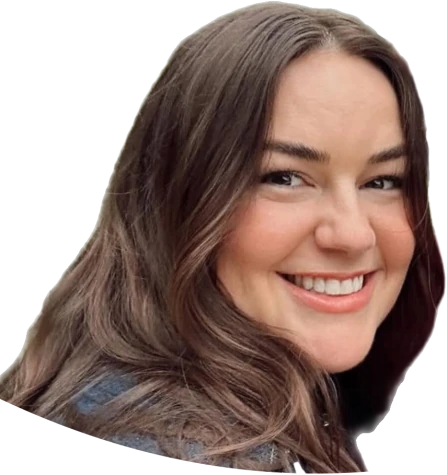
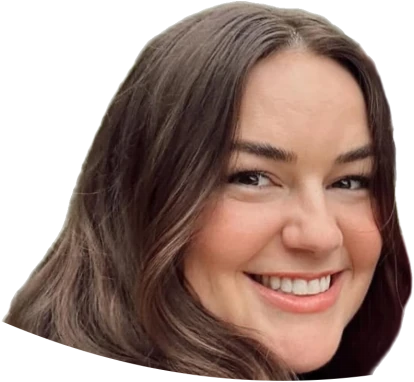
Bill's laugh, Mammy's ouch, and Shorty's shoulder out of her heads
- Bill's laugh and Mammy's ouch, sent by the owner in the chat, are cut and
  in their sets: both have the fifteen now, as everybody with a photo does.
  The two pictures are kept in art-src/generated, since they are not in his
  Drive. Bill's calm stays the photo of him in Hawaii: the owner has said
  that one is final.
- Shorty's denim jacket showed through the hair on her shoulder in every
  look but her pout. Her fifteen are trimmed at the chin, which takes the
  shoulder off. Her pout is as it was.
- Hair that is trimmed never cuts the face: a jaw that drops below the line,
  in a yell, stays whole (Sabra's yell and shocked get their chins back).
- Nanner's and Mammy's hair is not touched: the owner has said it is right
  as it is. The docs say so, and that hair is trimmed only when he asks.

206 faces. Picture fingerprints: 2 new, Shorty's fifteen and Sabra's two a
different size, nothing else touched. The whole tape plays with no errors.

Claude-Session: https://claude.ai/code/session_019b7mfLR7ticr216Qk7ssWT

diff --git a/src/data/cast.ts b/src/data/cast.ts
@@ -12,6 +12,7 @@ export const CAST: Record<string, Record<string, CastFace>> = {
     calm: { file: 'face-bill-calm.png', tall: 1.019, chin: [0.529, 0.992] },
     talking: { file: 'face-bill-talking.png', tall: 1.036, chin: [0.523, 0.971] },
     smile: { file: 'face-bill-smile.png', tall: 1.053, chin: [0.520, 0.957] },
+    laugh: { file: 'face-bill-laugh.png', tall: 1.044, chin: [0.517, 0.961] },
     smug: { file: 'face-bill-smug.png', tall: 1.019, chin: [0.517, 0.986] },
     angry: { file: 'face-bill-angry.png', tall: 1.011, chin: [0.517, 0.994] },
     yell: { file: 'face-bill-yell.png', tall: 1.131, chin: [0.517, 0.896] },
@@ -129,21 +130,21 @@ export const CAST: Record<string, Record<string, CastFace>> = {
     asleep: { file: 'face-branson-asleep.png', tall: 1.008, chin: [0.342, 0.995] },
   },
   shorty: {
-    calm: { file: 'face-shorty-calm.png', tall: 1.278, chin: [0.753, 0.785] },
-    talking: { file: 'face-shorty-talking.png', tall: 1.278, chin: [0.753, 0.785] },
-    smile: { file: 'face-shorty-smile.png', tall: 1.319, chin: [0.744, 0.761] },
-    laugh: { file: 'face-shorty-laugh.png', tall: 1.281, chin: [0.753, 0.786] },
-    smug: { file: 'face-shorty-smug.png', tall: 1.278, chin: [0.753, 0.785] },
-    angry: { file: 'face-shorty-angry.png', tall: 1.278, chin: [0.753, 0.785] },
-    yell: { file: 'face-shorty-yell.png', tall: 1.281, chin: [0.753, 0.786] },
-    shocked: { file: 'face-shorty-shocked.png', tall: 1.281, chin: [0.753, 0.786] },
-    guilty: { file: 'face-shorty-guilty.png', tall: 1.278, chin: [0.753, 0.785] },
-    worried: { file: 'face-shorty-worried.png', tall: 1.278, chin: [0.753, 0.785] },
-    cry: { file: 'face-shorty-cry.png', tall: 1.278, chin: [0.753, 0.785] },
-    ouch: { file: 'face-shorty-ouch.png', tall: 1.281, chin: [0.753, 0.786] },
-    dazed: { file: 'face-shorty-dazed.png', tall: 1.278, chin: [0.753, 0.785] },
-    disgusted: { file: 'face-shorty-disgusted.png', tall: 1.281, chin: [0.753, 0.785] },
-    asleep: { file: 'face-shorty-asleep.png', tall: 1.278, chin: [0.753, 0.785] },
+    calm: { file: 'face-shorty-calm.png', tall: 1.028, chin: [0.732, 0.976] },
+    talking: { file: 'face-shorty-talking.png', tall: 1.031, chin: [0.732, 0.975] },
+    smile: { file: 'face-shorty-smile.png', tall: 1.061, chin: [0.724, 0.947] },
+    laugh: { file: 'face-shorty-laugh.png', tall: 1.044, chin: [0.731, 0.964] },
+    smug: { file: 'face-shorty-smug.png', tall: 1.028, chin: [0.731, 0.976] },
+    angry: { file: 'face-shorty-angry.png', tall: 1.028, chin: [0.732, 0.976] },
+    yell: { file: 'face-shorty-yell.png', tall: 1.067, chin: [0.731, 0.944] },
+    shocked: { file: 'face-shorty-shocked.png', tall: 1.069, chin: [0.731, 0.942] },
+    guilty: { file: 'face-shorty-guilty.png', tall: 1.028, chin: [0.731, 0.976] },
+    worried: { file: 'face-shorty-worried.png', tall: 1.028, chin: [0.731, 0.976] },
+    cry: { file: 'face-shorty-cry.png', tall: 1.031, chin: [0.731, 0.973] },
+    ouch: { file: 'face-shorty-ouch.png', tall: 1.031, chin: [0.731, 0.976] },
+    dazed: { file: 'face-shorty-dazed.png', tall: 1.028, chin: [0.731, 0.976] },
+    disgusted: { file: 'face-shorty-disgusted.png', tall: 1.031, chin: [0.731, 0.975] },
+    asleep: { file: 'face-shorty-asleep.png', tall: 1.028, chin: [0.730, 0.976] },
     pout: { file: 'face-shorty-pout.png', tall: 1.250, chin: [0.486, 0.525] },
   },
   mammy: {
@@ -158,6 +159,7 @@ export const CAST: Record<string, Record<string, CastFace>> = {
     guilty: { file: 'face-mammy-guilty.png', tall: 1.347, chin: [0.341, 0.748] },
     worried: { file: 'face-mammy-worried.png', tall: 1.344, chin: [0.341, 0.748] },
     cry: { file: 'face-mammy-cry.png', tall: 1.350, chin: [0.341, 0.748] },
+    ouch: { file: 'face-mammy-ouch.png', tall: 1.342, chin: [0.342, 0.751] },
     dazed: { file: 'face-mammy-dazed.png', tall: 1.350, chin: [0.341, 0.748] },
     disgusted: { file: 'face-mammy-disgusted.png', tall: 1.353, chin: [0.341, 0.744] },
     asleep: { file: 'face-mammy-asleep.png', tall: 1.344, chin: [0.341, 0.748] },
@@ -225,8 +227,8 @@ export const CAST: Record<string, Record<string, CastFace>> = {
     laugh: { file: 'face-sabra-laugh.png', tall: 1.036, chin: [0.487, 0.969] },
     smug: { file: 'face-sabra-smug.png', tall: 1.036, chin: [0.488, 0.971] },
     angry: { file: 'face-sabra-angry.png', tall: 1.036, chin: [0.487, 0.971] },
-    yell: { file: 'face-sabra-yell.png', tall: 1.061, chin: [0.496, 0.948] },
-    shocked: { file: 'face-sabra-shocked.png', tall: 1.061, chin: [0.487, 0.948] },
+    yell: { file: 'face-sabra-yell.png', tall: 1.075, chin: [0.496, 0.936] },
+    shocked: { file: 'face-sabra-shocked.png', tall: 1.067, chin: [0.487, 0.943] },
     guilty: { file: 'face-sabra-guilty.png', tall: 1.036, chin: [0.488, 0.971] },
     worried: { file: 'face-sabra-worried.png', tall: 1.036, chin: [0.488, 0.971] },
     cry: { file: 'face-sabra-cry.png', tall: 1.039, chin: [0.487, 0.968] },

diff --git a/tools/make_cast.py b/tools/make_cast.py
@@ -116,7 +116,7 @@ PHOTOS = {
     "christian": {"calm": {"base": True, "seal": 0.03, "turn": 10}, "smile": {}, "laugh": {"size": 0.95}, "gentle": {"seal": 0.03},
                   "yell2": {}, "dazed2": {}, "worried2": {}},
     "branson": {"laugh": {"seal": 0.03, "size": 0.95}},
-    "shorty": {"smile": {"base": True, "below": 0.27}, "pout": {}},
+    "shorty": {"smile": {"base": True, "below": 0.02}, "pout": {"size": 1.0274}},
     "mammy": {"photo": {"size": 0.9}},
     "pappy": {"photo": {"seal": 0.03, "size": 0.9}, "silly": {"seal": 0.03, "size": 0.9}},
     "nanner": {"photo": {"size": 0.87}},
@@ -136,7 +136,7 @@ SETS = {
     "nanner": {"below": 0.4},
     "christian": {"seal": 0.05, "turn": 10},
     "branson": {"seal": 0.06, "turn": -6},
-    "shorty": {"below": 0.27},
+    "shorty": {"below": 0.02},
     "sabra": {"below": 0.05},
 }
 
@@ -196,7 +196,7 @@ def sources(who):
     return found
 
 
-def head_of(cut, mask, turn=0, jaw=0, seal=0, above=0, below=0, face=None, also=None):
+def head_of(cut, mask, turn=0, jaw=0, seal=0, above=0, below=0, face=None, also=None, own=None):
     """The head alone: Adobe's cutout where its selection of the head says, the holes it
     leaves at the eyes and mouth filled in, and only the one biggest piece of it. Then, where
     the picture needs it, the jaw drawn out to where the chin really is, and the head set straight."""
@@ -234,7 +234,14 @@ def head_of(cut, mask, turn=0, jaw=0, seal=0, above=0, below=0, face=None, also=
         # lowest in the middle and higher at the sides, as hair that has been cut is
         edge = fy.max() + below * tall - 0.1 * tall * ((xs - (fx.min() + fx.max()) / 2) / (0.6 * tall)) ** 2
         rows_ = np.arange(head.shape[0], dtype=np.float32)[:, None]
-        head[..., 3] *= np.clip(edge[None, :] - rows_ + 0.5, 0, 1)
+        kept = np.clip(edge[None, :] - rows_ + 0.5, 0, 1)
+        if own:
+            # (it is hair that is trimmed, never the face: a jaw that has dropped below the line stays whole)
+            outline, _ = cv2.findContours(face_of(own).astype(np.uint8), cv2.RETR_EXTERNAL, cv2.CHAIN_APPROX_NONE)
+            inside = np.zeros(head.shape[:2], np.uint8)
+            cv2.drawContours(inside, outline, -1, 1, thickness=cv2.FILLED)
+            kept = np.maximum(kept, cv2.GaussianBlur(cv2.dilate(inside, np.ones((3, 3), np.uint8)).astype(np.float32), (0, 0), 1.0))
+        head[..., 3] *= kept
     if jaw:
         # from the mouth down the outline is made the shape of a jaw, with nothing cut into it,
         # and that shape is drawn out downwards as far as the chin really goes
@@ -302,7 +309,7 @@ def cast(who):
     # (hair that is trimmed is trimmed along one line for a whole batch, under that chin: a
     # mouth that drops open must not take the hair down with it)
     heads = {look: head_of(cut, mask, how.get("turn", 0), how.get("jaw", 0), how.get("seal", 0), how.get("above", 0),
-                           how.get("below", 0), found[ref][2] if look in batch else face, how.get("also"))
+                           how.get("below", 0), found[ref][2] if look in batch else face, how.get("also"), face)
              for look, (cut, mask, face, _, how) in found.items()}
     at = {look: measured(head) for look, head in heads.items()}
     top, wide, middle, _ = at[ref]

diff --git a/docs/characters.md b/docs/characters.md
@@ -134,11 +134,11 @@ name of its own from the start, and is asked for like any other:
 
 | Who | Called | Of the fifteen | Missing | And of their own |
 | --- | --- | --- | --- | --- |
-| Bill | `bill` | 14 (his calm is a photo of him years ago, with a moustache and no beard) | laugh | `inhale` (the breath in), `hold` (holding it), `sideeye`, `glare` |
+| Bill | `bill` | 15 (his calm is a photo of him years ago, with a moustache and no beard: the owner has said that is his calm, for good) | | `inhale` (the breath in), `hold` (holding it), `sideeye`, `glare` |
 | Stephanie | `stephanie` | 15 | | `inhale` (the breath in), `hold` (holding it: her cross, lips-pressed face) |
 | Chad | `chad` | 15 | | `grin` (the base photo), `angel` (smiling), `joy` (laughing), `scowl` |
 | Shane | `shane` | 15 | | `beam` (the base photo), `wary`, `smirk`, `doe` (doe eyes), `startled` (his first shocked face, from another photo) |
-| Mammy | `mammy` | 14 | ouch | `photo` (the Christmas photo her set was made from: its own smile) |
+| Mammy | `mammy` | 15 | | `photo` (the Christmas photo her set was made from: its own smile) |
 | Pappy | `pappy` | 15 | | `photo` (a real photo: a closed-mouth smile, in the leaf-print shirt), `silly` (tongue out, in his sunglasses) |
 | Nanner | `nanner` | 15 | | `photo` (the wedding photo her set was made from: its own smile) |
 | Christian | `christian` | 15 (his calm, smile and laugh are real photos) | | `gentle` (a gentle smile, 2021), and three made from the photo his smile is: `yell2`, `dazed2`, `worried2` (a nervous grin) |
@@ -189,9 +189,13 @@ for):
   Expression Repo", a folder for each person, each file called by the person
   and the look ("Chad Guilty.png"). "Default" is the photo itself, and is
   that person's smile. Adobe's cutouts of them are in `art-src/cast/<who>`.
-- **Bill's smile is the base photo,** a big open grin: it serves as his
-  laugh as well. The picture that came as his calm was the same file as his
-  talking, so he has no calm yet.
+- **Bill's smile is the base photo,** a big open grin. His laugh is an edit
+  of it that the owner sent in the chat on 26 November (eyes creased shut,
+  mouth wide open), as was Mammy's ouch: neither is in his Drive, so both are
+  kept here, in `art-src/generated` (`face-bill-laugh`, `face-mammy-ouch`).
+  The picture that came as Bill's calm was the same file as his talking; his
+  calm is the photo of him at the lookout in Hawaii, years ago, and the owner
+  has said that one is final.
 - **Within a batch they match,** being edits of one photo with one framing.
   An earlier picture that is an edit of the same photo sits well beside
   them. One from **another photo** does not (different light, sometimes a
@@ -201,7 +205,7 @@ for):
   their own chins, as they always were.
 - **Mammy's, Pappy's and Nanner's came the same way** (25 November 2026),
   with Stephanie's shocked and a shocked for Shane that matches his set.
-  Mammy has no ouch yet: it was not in the folder. Her other thirteen came
+  Mammy's ouch came later, in the chat. Her other thirteen came
   as small copies (480 by 639, where her "Default" is 1792 by 2388): they
   are big enough for a head in the game, a little softer than her smile, and
   full-size copies would replace them if the owner has them.
@@ -213,8 +217,12 @@ for):
   photo, the green T-shirt one his smile is: they are his own `yell2`,
   `dazed2` and `worried2`. Two of Branson's files were both called "Calm": one
   was his smug. His dazed came as a small picture blown up, and is soft.
-  Shorty's hair runs out of her photo, and so out of every edit: all are
-  trimmed under the chin along one line, as her smile was.
+  Shorty's hair runs out of her photo and lies over her shoulder, and her
+  denim jacket showed through it: every look of hers, and her smile, is
+  trimmed at the chin, which takes the shoulder off (the owner asked for
+  this). **That is Shorty's and nobody else's.** Nanner's and Mammy's long
+  hair is right as it is, the owner has said (26 November): do not trim
+  anybody else's hair unless he asks.
 - **Sabra's and Curt's came on 26 November,** each a portrait ("Default")
   and thirteen edits of it. Sabra's portrait was made from her restaurant
   photo; Curt's from his wedding photo, the owner's choice, so his set is
@@ -375,7 +383,7 @@ evenly lit, the biggest copy there is, nobody else in it.
 
 | Who | Who they are | Faces |
 | --- | --- | --- |
-| **Mammy** | Stephanie's mother | all fifteen: she has fourteen (ouch is to come) |
+| **Mammy** | Stephanie's mother | all fifteen: she has them |
 | **Pappy** | Stephanie's father | all fifteen: he has them |
 | **Nanner** | Stephanie's sister | all fifteen: she has them |
 | **Curt** | Stephanie's brother | all fifteen: he has them |
@@ -521,7 +529,7 @@ sets: Chad's yell, cry and calm, Shane's startled, cry and doe eyes.)
 
 | Photo | What it shows | What became of it |
 | --- | --- | --- |
-| `shorty-1` (…110606) | Smiling, outdoors, a denim jacket | Her base: **smile**, and the fourteen edits of it (her hair runs out of the picture, and is trimmed under her chin in all of them) |
+| `shorty-1` (…110606) | Smiling, outdoors, a denim jacket | Her base: **smile**, and the fourteen edits of it (her hair runs out of the picture and over her shoulder, and is trimmed at her chin in all of them) |
 | `shorty-3` (the cut-out one) | A pout, hands up by her head | **pout** (her own) |
 | The studio portrait | Smiling over her shoulder, lighter hair | Not cut: another smile, turned well away |
 
@@ -627,11 +635,11 @@ photo so that it matches the rest:
 
 | | Missing | Could be done again to match |
 | --- | --- | --- |
-| Bill | laugh, if his grin will not do for it | calm (his is a photo from years ago, with no beard; what came as his calm in the batch was his talking again), yell (his is the "PAH", head tipped back) |
+| Bill | | yell (his is the "PAH", head tipped back). His calm is settled: the owner has chosen the Hawaii photo for it. |
 | Stephanie | | yell and angry (hers are the "PAH" and the scolding) |
 | Chad | | calm, yell, cry (his are from the earlier pictures: the same photo, framed closer) |
 | Shane | | cry (his is from the earlier pictures) |
-| Mammy | ouch | the thirteen that came small, if there are full-size copies |
+| Mammy | | the thirteen that came small, if there are full-size copies |
 | Curt | | laugh (his is a photo of him as he is now; the rest are him years younger) |
 | Sabra | | calm (hers is a photo of her looking away) |
 

diff --git a/docs/catalogue/README.md b/docs/catalogue/README.md
@@ -9,7 +9,7 @@ The size is how big the picture is drawn, in the game's own pixels (the page is 
 - [Cars](#cars) (22)
 - [People: bodies](#bodies) (77)
 - [People: faces](#faces) (32)
-- [People: everybody's faces](#cast) (204)
+- [People: everybody's faces](#cast) (206)
 - [The rubberneckers, and the animals](#gawkers) (51)
 - [Effects](#effects) (25)
 - [Words on bursts](#words) (51)
@@ -338,6 +338,7 @@ One set for each of the family, every look the same size and hung from the same 
 | `face_bill_guilty` | 62 x 81 |  | `src/assets/scrap/face-bill-guilty.webp` |
 | `face_bill_hold` | 63 x 84 |  | `src/assets/scrap/face-bill-hold.webp` |
 | `face_bill_inhale` | 63 x 85 |  | `src/assets/scrap/face-bill-inhale.webp` |
+| `face_bill_laugh` | 62 x 84 |  | `src/assets/scrap/face-bill-laugh.webp` |
 | `face_bill_ouch` | 62 x 82 |  | `src/assets/scrap/face-bill-ouch.webp` |
 | `face_bill_shocked` | 62 x 84 |  | `src/assets/scrap/face-bill-shocked.webp` |
 | `face_bill_sideeye` | 61 x 87 |  | `src/assets/scrap/face-bill-sideeye.webp` |
@@ -423,6 +424,7 @@ One set for each of the family, every look the same size and hung from the same 
 | `face_mammy_disgusted` | 104 x 108 |  | `src/assets/scrap/face-mammy-disgusted.webp` |
 | `face_mammy_guilty` | 104 x 108 |  | `src/assets/scrap/face-mammy-guilty.webp` |
 | `face_mammy_laugh` | 104 x 107 |  | `src/assets/scrap/face-mammy-laugh.webp` |
+| `face_mammy_ouch` | 104 x 107 |  | `src/assets/scrap/face-mammy-ouch.webp` |
 | `face_mammy_photo` | 93 x 120 |  | `src/assets/scrap/face-mammy-photo.webp` |
 | `face_mammy_shocked` | 104 x 108 |  | `src/assets/scrap/face-mammy-shocked.webp` |
 | `face_mammy_smile` | 104 x 108 |  | `src/assets/scrap/face-mammy-smile.webp` |
@@ -478,7 +480,7 @@ One set for each of the family, every look the same size and hung from the same 
 | `face_sabra_smug` | 65 x 83 |  | `src/assets/scrap/face-sabra-smug.webp` |
 | `face_sabra_talking` | 65 x 83 |  | `src/assets/scrap/face-sabra-talking.webp` |
 | `face_sabra_worried` | 65 x 83 |  | `src/assets/scrap/face-sabra-worried.webp` |
-| `face_sabra_yell` | 66 x 85 |  | `src/assets/scrap/face-sabra-yell.webp` |
+| `face_sabra_yell` | 66 x 86 |  | `src/assets/scrap/face-sabra-yell.webp` |
 | `face_shane_angry` | 53 x 81 |  | `src/assets/scrap/face-shane-angry.webp` |
 | `face_shane_asleep` | 53 x 81 |  | `src/assets/scrap/face-shane-asleep.webp` |
 | `face_shane_beam` | 50 x 79 |  | `src/assets/scrap/face-shane-beam.webp` |
@@ -499,22 +501,22 @@ One set for each of the family, every look the same size and hung from the same 
 | `face_shane_wary` | 53 x 76 |  | `src/assets/scrap/face-shane-wary.webp` |
 | `face_shane_worried` | 53 x 81 |  | `src/assets/scrap/face-shane-worried.webp` |
 | `face_shane_yell` | 53 x 86 |  | `src/assets/scrap/face-shane-yell.webp` |
-| `face_shorty_angry` | 98 x 102 |  | `src/assets/scrap/face-shorty-angry.webp` |
-| `face_shorty_asleep` | 98 x 102 |  | `src/assets/scrap/face-shorty-asleep.webp` |
-| `face_shorty_calm` | 98 x 102 |  | `src/assets/scrap/face-shorty-calm.webp` |
-| `face_shorty_cry` | 98 x 102 |  | `src/assets/scrap/face-shorty-cry.webp` |
-| `face_shorty_dazed` | 98 x 102 |  | `src/assets/scrap/face-shorty-dazed.webp` |
-| `face_shorty_disgusted` | 98 x 102 |  | `src/assets/scrap/face-shorty-disgusted.webp` |
-| `face_shorty_guilty` | 98 x 102 |  | `src/assets/scrap/face-shorty-guilty.webp` |
-| `face_shorty_laugh` | 98 x 102 |  | `src/assets/scrap/face-shorty-laugh.webp` |
-| `face_shorty_ouch` | 98 x 102 |  | `src/assets/scrap/face-shorty-ouch.webp` |
+| `face_shorty_angry` | 90 x 82 |  | `src/assets/scrap/face-shorty-angry.webp` |
+| `face_shorty_asleep` | 90 x 82 |  | `src/assets/scrap/face-shorty-asleep.webp` |
+| `face_shorty_calm` | 90 x 82 |  | `src/assets/scrap/face-shorty-calm.webp` |
+| `face_shorty_cry` | 90 x 82 |  | `src/assets/scrap/face-shorty-cry.webp` |
+| `face_shorty_dazed` | 90 x 82 |  | `src/assets/scrap/face-shorty-dazed.webp` |
+| `face_shorty_disgusted` | 90 x 82 |  | `src/assets/scrap/face-shorty-disgusted.webp` |
+| `face_shorty_guilty` | 90 x 82 |  | `src/assets/scrap/face-shorty-guilty.webp` |
+| `face_shorty_laugh` | 90 x 84 |  | `src/assets/scrap/face-shorty-laugh.webp` |
+| `face_shorty_ouch` | 90 x 82 |  | `src/assets/scrap/face-shorty-ouch.webp` |
 | `face_shorty_pout` | 96 x 100 |  | `src/assets/scrap/face-shorty-pout.webp` |
-| `face_shorty_shocked` | 98 x 102 |  | `src/assets/scrap/face-shorty-shocked.webp` |
-| `face_shorty_smile` | 99 x 106 |  | `src/assets/scrap/face-shorty-smile.webp` |
-| `face_shorty_smug` | 98 x 102 |  | `src/assets/scrap/face-shorty-smug.webp` |
-| `face_shorty_talking` | 98 x 102 |  | `src/assets/scrap/face-shorty-talking.webp` |
-| `face_shorty_worried` | 98 x 102 |  | `src/assets/scrap/face-shorty-worried.webp` |
-| `face_shorty_yell` | 98 x 102 |  | `src/assets/scrap/face-shorty-yell.webp` |
+| `face_shorty_shocked` | 90 x 86 |  | `src/assets/scrap/face-shorty-shocked.webp` |
+| `face_shorty_smile` | 92 x 85 |  | `src/assets/scrap/face-shorty-smile.webp` |
+| `face_shorty_smug` | 90 x 82 |  | `src/assets/scrap/face-shorty-smug.webp` |
+| `face_shorty_talking` | 90 x 82 |  | `src/assets/scrap/face-shorty-talking.webp` |
+| `face_shorty_worried` | 90 x 82 |  | `src/assets/scrap/face-shorty-worried.webp` |
+| `face_shorty_yell` | 90 x 85 |  | `src/assets/scrap/face-shorty-yell.webp` |
 | `face_stephanie_angry` | 115 x 128 |  | `src/assets/scrap/face-stephanie-angry.webp` |
 | `face_stephanie_asleep` | 116 x 129 |  | `src/assets/scrap/face-stephanie-asleep.webp` |
 | `face_stephanie_calm` | 115 x 128 |  | `src/assets/scrap/face-stephanie-calm.webp` |

diff --git a/docs/pictures.md b/docs/pictures.md
@@ -26,8 +26,8 @@ the repository.
 
 | | Where | What it is |
 | --- | --- | --- |
-| **The finished cutouts** | `src/assets/scrap` (419 files), and Bill's four everyday heads in `src/assets/bill`. A game with a folder of its own keeps its own in `src/minis/<id>/assets`. | What the game loads: each piece by itself, background gone, trimmed to its edges, heads taken off bodies, at the size it is drawn. **These are the ones to use**, and a game uses one by its name, not its file: the catalogue gives both. |
-| **Adobe's cutouts** | `art-src/adobe` (155 files): `...-cutout.png` is a whole picture with its background gone, and `...-headmask.png` (`-facemask`, `-handmask`, `-batmask`) is what Adobe selected in it. Everybody's faces are in `art-src/cast/<who>` (440 files), the same two for each look. | Full size, exactly as Adobe gave them back. For when a finished piece is not enough: a bigger copy for a close-up, or a piece cut a different way. Nothing has to go back to Adobe for that. |
+| **The finished cutouts** | `src/assets/scrap` (421 files), and Bill's four everyday heads in `src/assets/bill`. A game with a folder of its own keeps its own in `src/minis/<id>/assets`. | What the game loads: each piece by itself, background gone, trimmed to its edges, heads taken off bodies, at the size it is drawn. **These are the ones to use**, and a game uses one by its name, not its file: the catalogue gives both. |
+| **Adobe's cutouts** | `art-src/adobe` (155 files): `...-cutout.png` is a whole picture with its background gone, and `...-headmask.png` (`-facemask`, `-handmask`, `-batmask`) is what Adobe selected in it. Everybody's faces are in `art-src/cast/<who>` (445 files), the same two for each look. | Full size, exactly as Adobe gave them back. For when a finished piece is not enough: a bigger copy for a close-up, or a piece cut a different way. Nothing has to go back to Adobe for that. |
 | **The pictures they were cut from** | `art-src/generated` (what the owner generated) and `art-src/photos` (the family's photos) | The originals. |
 
 `tools/make_cutouts.py` makes the first layer from the other two, and can

diff --git a/docs/cutting.md b/docs/cutting.md
@@ -216,6 +216,14 @@ tool; a new look of somebody is only its two files. Nothing else changes:
 - **What a whole batch needs** (a head that is tipped in the portrait, a
   far eyebrow at the edge of a turned face, hair to trim) is said once for
   the person, in `SETS`.
+- **A shoulder in a head** is what Shorty's had: long hair that lies over
+  a shoulder brings the jacket under it into Adobe's selection of the hair,
+  and a whole band of denim showed through. Hers is trimmed at the chin
+  (`below: 0.02`). The trim is one line for the whole batch, under the
+  shut-mouth chin, and it never cuts the face: a jaw that drops below the
+  line, in a yell, stays whole. This is done when the owner asks for it and
+  not otherwise: he has said Nanner's and Mammy's long hair is right as it
+  is, though a little of a collar can be found at its ends.
 - **Look at the whole set on one line,** chins level (step 5): a head that
   is the wrong size or hangs wrong shows at once beside its fourteen
   neighbours.
